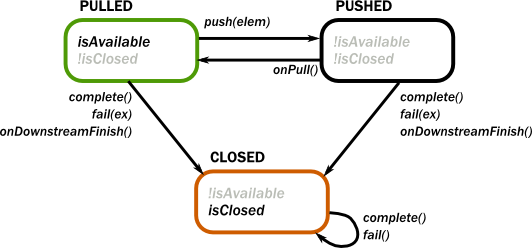
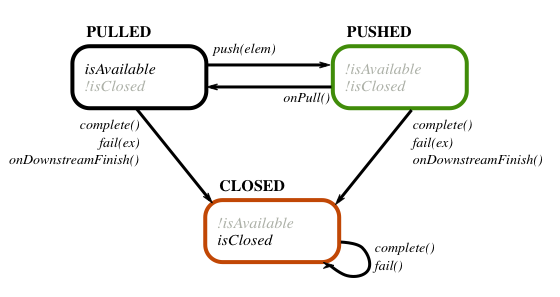
fix initial state of output port transitions, #25502

Changed region(s): [[0.0, 0.0, 1.0, 0.5645], [0.3609, 0.4798, 0.812, 1.0], [0.3308, 0.5645, 0.3609, 0.6492]]

diff --git a/akka-docs/src/main/paradox/stream/stream-customize.md b/akka-docs/src/main/paradox/stream/stream-customize.md
@@ -96,8 +96,11 @@ Java
 ### Port states, @scala[InHandler] @java[AbstractInHandler] and @scala[OutHandler] @java[AbstractOutHandler]
 
 In order to interact with a port (`Inlet` or `Outlet`) of the operator we need to be able to receive events
-and generate new events belonging to the port. From the `GraphStageLogic` the following operations are available
-on an output port:
+and generate new events belonging to the port.
+
+#### Output port
+
+From the `GraphStageLogic` the following operations are available on an output port:
 
  * `push(out,elem)` pushes an element to the output port. Only possible after the port has been pulled by downstream.
  * `complete(out)` closes the output port normally.
@@ -122,6 +125,8 @@ to call it while the port is in that state. If an event is not listed for a stat
 in that state.
 
 ![outport_transitions.png](../images/outport_transitions.png)
+
+#### Input port
 
 The following operations are available for *input* ports:
 
@@ -154,10 +159,14 @@ in that state.
 
 ![inport_transitions.png](../images/inport_transitions.png)
 
+#### Complete and fail
+
 Finally, there are two methods available for convenience to complete the operator and all of its ports:
 
  * `completeStage()` is equivalent to closing all output ports and cancelling all input ports.
  * `failStage(exception)` is equivalent to failing all output ports and cancelling all input ports.
+
+#### Emit
 
 In some cases it is inconvenient and error prone to react on the regular state machine events with the
 signal based API described above. For those cases there is an API which allows for a more declarative sequencing
